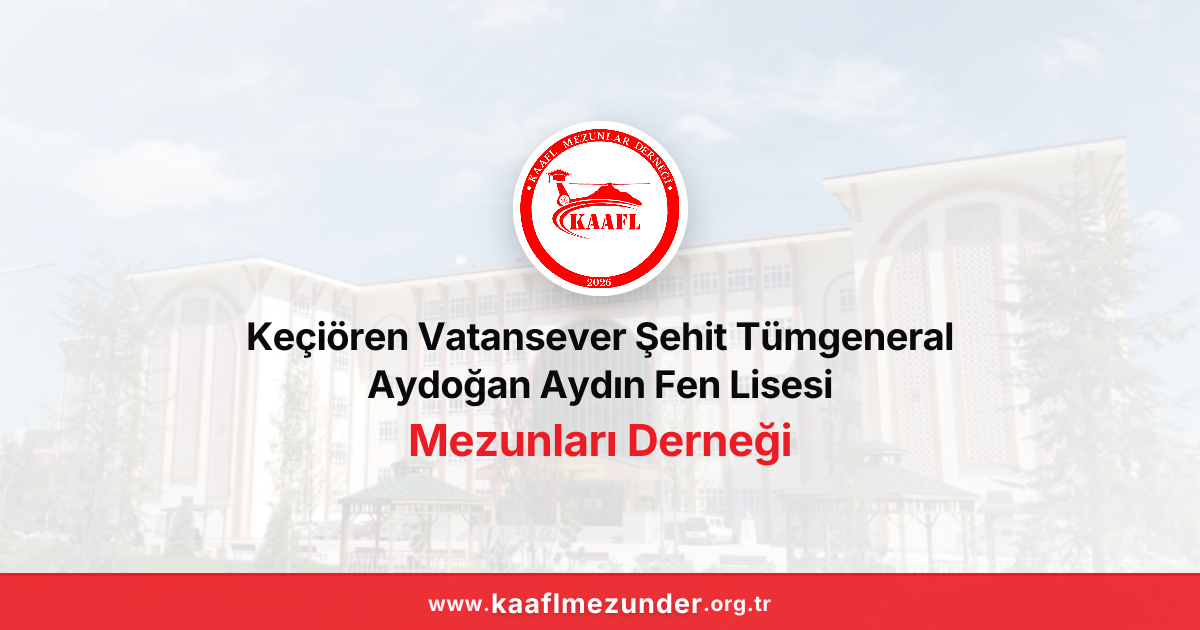
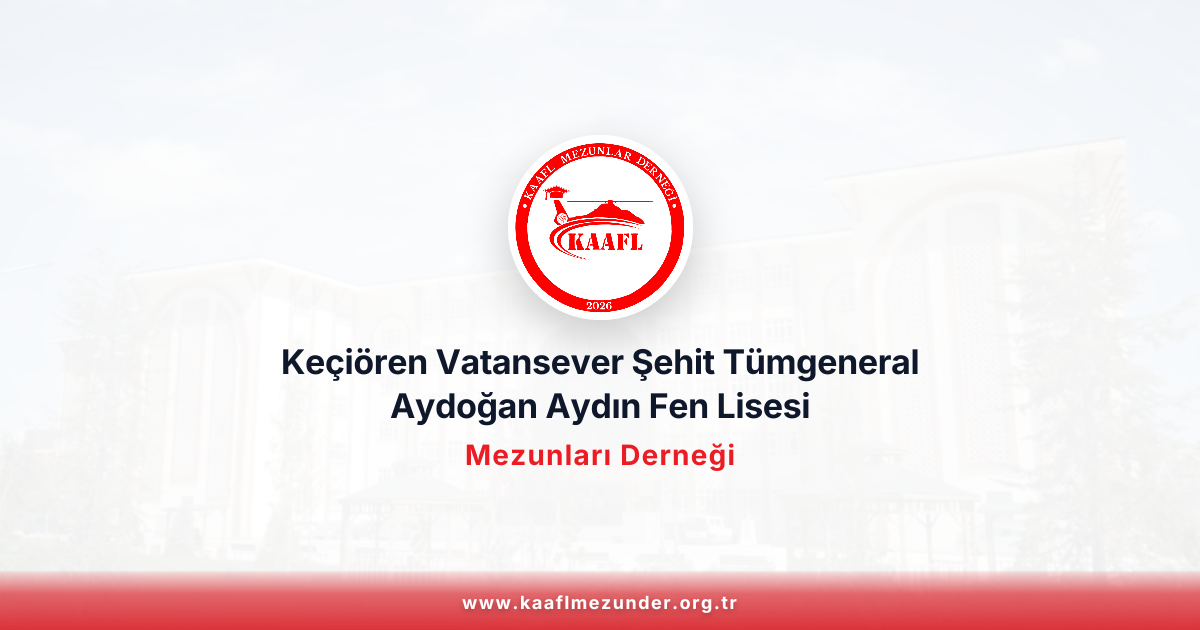
feat(branding): complete professional visual branding revision for social preview with Inter Bold typography

Changed region(s): [[0.185, 0.181, 0.8017, 0.8444], [0.0, 0.7841, 1.0, 0.9952]]

diff --git a/src/app/opengraph-image.tsx b/src/app/opengraph-image.tsx
@@ -54,7 +54,7 @@ export default async function OpenGraphImage() {
           justifyContent: "space-between",
           alignItems: "center",
           position: "relative",
-          backgroundColor: "#f1f5f9",
+          backgroundColor: "#ffffff",
           overflow: "hidden",
           fontFamily: "Inter, sans-serif",
         }}
@@ -75,7 +75,7 @@ export default async function OpenGraphImage() {
           />
         ) : null}
 
-        {/* Gradient Overlay for elegance & high contrast legibility (Hero style) */}
+        {/* Soft white translucent gradient overlay for clean contrast & visible school */}
         <div
           style={{
             position: "absolute",
@@ -84,14 +84,14 @@ export default async function OpenGraphImage() {
             width: "100%",
             height: "100%",
             background:
-              "linear-gradient(135deg, rgba(255, 255, 255, 0.93) 0%, rgba(255, 255, 255, 0.84) 50%, rgba(255, 255, 255, 0.93) 100%)",
+              "radial-gradient(ellipse at center, rgba(255, 255, 255, 0.93) 0%, rgba(255, 255, 255, 0.83) 65%, rgba(255, 255, 255, 0.72) 100%)",
           }}
         />
 
-        {/* Top spacer */}
-        <div style={{ height: "14px" }} />
+        {/* Top breathing space */}
+        <div style={{ height: "36px" }} />
 
-        {/* Center Content: Logo + Official Association Name in 3 lines */}
+        {/* Center Content: Large Logo + School Name + Subtitle */}
         <div
           style={{
             display: "flex",
@@ -99,7 +99,7 @@ export default async function OpenGraphImage() {
             alignItems: "center",
             justifyContent: "center",
             textAlign: "center",
-            padding: "0 40px",
+            padding: "0 60px",
           }}
         >
           {/* Logo */}
@@ -108,20 +108,20 @@ export default async function OpenGraphImage() {
               src={logoBase64}
               alt="Dernek Logosu"
               style={{
-                width: "175px",
-                height: "175px",
+                width: "185px",
+                height: "185px",
                 borderRadius: "50%",
-                boxShadow: "0 12px 35px rgba(0, 0, 0, 0.22)",
+                boxShadow: "0 16px 45px rgba(0, 0, 0, 0.20)",
                 border: "5px solid #ffffff",
-                marginBottom: "16px",
+                marginBottom: "20px",
                 objectFit: "cover",
               }}
             />
           ) : (
             <div
               style={{
-                width: "160px",
-                height: "160px",
+                width: "170px",
+                height: "170px",
                 borderRadius: "50%",
                 background: "#ec1c24",
                 display: "flex",
@@ -130,7 +130,7 @@ export default async function OpenGraphImage() {
                 color: "#ffffff",
                 fontSize: "48px",
                 fontWeight: 700,
-                marginBottom: "16px",
+                marginBottom: "20px",
                 border: "5px solid #ffffff",
               }}
             >
@@ -138,84 +138,68 @@ export default async function OpenGraphImage() {
             </div>
           )}
 
-          {/* Association Full Official Name split into 3 clear lines with Inter Bold */}
+          {/* School Name */}
           <h1
             style={{
               display: "flex",
               flexDirection: "column",
               alignItems: "center",
               justifyContent: "center",
-              fontSize: "38px",
+              fontSize: "34px",
               fontWeight: 700,
-              lineHeight: 1.25,
-              color: "#09090b",
+              lineHeight: 1.3,
+              color: "#0f172a",
               margin: 0,
-              maxWidth: "1080px",
+              maxWidth: "1040px",
               textAlign: "center",
-              letterSpacing: "-0.6px",
+              letterSpacing: "-0.4px",
               fontFamily: "Inter",
             }}
           >
-            <span style={{ color: "#09090b" }}>Keçiören Vatansever Şehit Tümgeneral</span>
-            <span style={{ color: "#09090b" }}>Aydoğan Aydın Fen Lisesi</span>
-            <span style={{ color: "#ec1c24", fontSize: "44px", marginTop: "4px" }}>
-              Mezunları Derneği
-            </span>
+            <span style={{ color: "#0f172a" }}>Keçiören Vatansever Şehit Tümgeneral</span>
+            <span style={{ color: "#0f172a" }}>Aydoğan Aydın Fen Lisesi</span>
           </h1>
+
+          {/* Association Subtitle */}
+          <span
+            style={{
+              fontSize: "28px",
+              fontWeight: 700,
+              color: "#ec1c24",
+              marginTop: "10px",
+              letterSpacing: "1.2px",
+              fontFamily: "Inter",
+            }}
+          >
+            Mezunları Derneği
+          </span>
         </div>
 
-        {/* Bottom Banner Bar with Website URL & Top Accent Line */}
+        {/* Bottom semi-transparent gradient bar where school is subtly visible */}
         <div
           style={{
             width: "100%",
             display: "flex",
             flexDirection: "column",
             alignItems: "center",
+            background:
+              "linear-gradient(to top, rgba(215, 25, 33, 0.88) 0%, rgba(215, 25, 33, 0.65) 60%, rgba(215, 25, 33, 0.15) 95%, rgba(215, 25, 33, 0) 100%)",
+            paddingTop: "22px",
+            paddingBottom: "16px",
           }}
         >
-          {/* Accent Line */}
-          <div
+          <span
             style={{
-              width: "100%",
-              height: "3px",
-              background: "#ec1c24",
-            }}
-          />
-
-          {/* Red banner stripe */}
-          <div
-            style={{
-              width: "100%",
-              height: "54px",
-              background: "rgba(236, 28, 36, 0.90)",
-              display: "flex",
-              alignItems: "center",
-              justifyContent: "center",
+              fontSize: "18px",
+              fontWeight: 700,
+              color: "#ffffff",
+              letterSpacing: "1.5px",
+              fontFamily: "Inter",
+              textShadow: "0 2px 6px rgba(0, 0, 0, 0.3)",
             }}
           >
-            <span
-              style={{
-                display: "flex",
-                alignItems: "center",
-                color: "#ffffff",
-                letterSpacing: "0.5px",
-                fontFamily: "Inter",
-              }}
-            >
-              <span style={{ fontSize: "21px", fontWeight: 700, opacity: 0.95 }}>www.</span>
-              <span
-                style={{
-                  fontSize: "27px",
-                  fontWeight: 700,
-                  letterSpacing: "1px",
-                  textShadow: "0 2px 4px rgba(0,0,0,0.2)",
-                }}
-              >
-                kaaflmezunder
-              </span>
-              <span style={{ fontSize: "21px", fontWeight: 700, opacity: 0.95 }}>.org.tr</span>
-            </span>
-          </div>
+            www.kaaflmezunder.org.tr
+          </span>
         </div>
       </div>
     ),

diff --git a/src/app/layout.tsx b/src/app/layout.tsx
@@ -63,7 +63,7 @@ export const metadata: Metadata = {
     description: associationDescription,
     images: [
       {
-        url: "/images/og-image.jpg?v=2",
+        url: "/images/og-image.jpg?v=3",
         width: 1200,
         height: 630,
         type: "image/jpeg",
@@ -75,7 +75,7 @@ export const metadata: Metadata = {
     card: "summary_large_image",
     title: `${associationName} | KAAFL Mezunları Derneği`,
     description: associationDescription,
-    images: ["/images/og-image.jpg?v=2"],
+    images: ["/images/og-image.jpg?v=3"],
   },
   robots: {
     index: true,

diff --git a/src/config/site.ts b/src/config/site.ts
@@ -13,7 +13,7 @@ export const siteConfig = {
   name: associationName,
   shortName: associationShortName,
   url: siteUrl,
-  ogImage: `${siteUrl}/images/og-image.jpg?v=2`,
+  ogImage: `${siteUrl}/images/og-image.jpg?v=3`,
   logoUrl: `${siteUrl}/logo-dernek.jpg`,
   faviconUrl: `${siteUrl}/logo-dernek.svg`,
   description: associationDescription,
